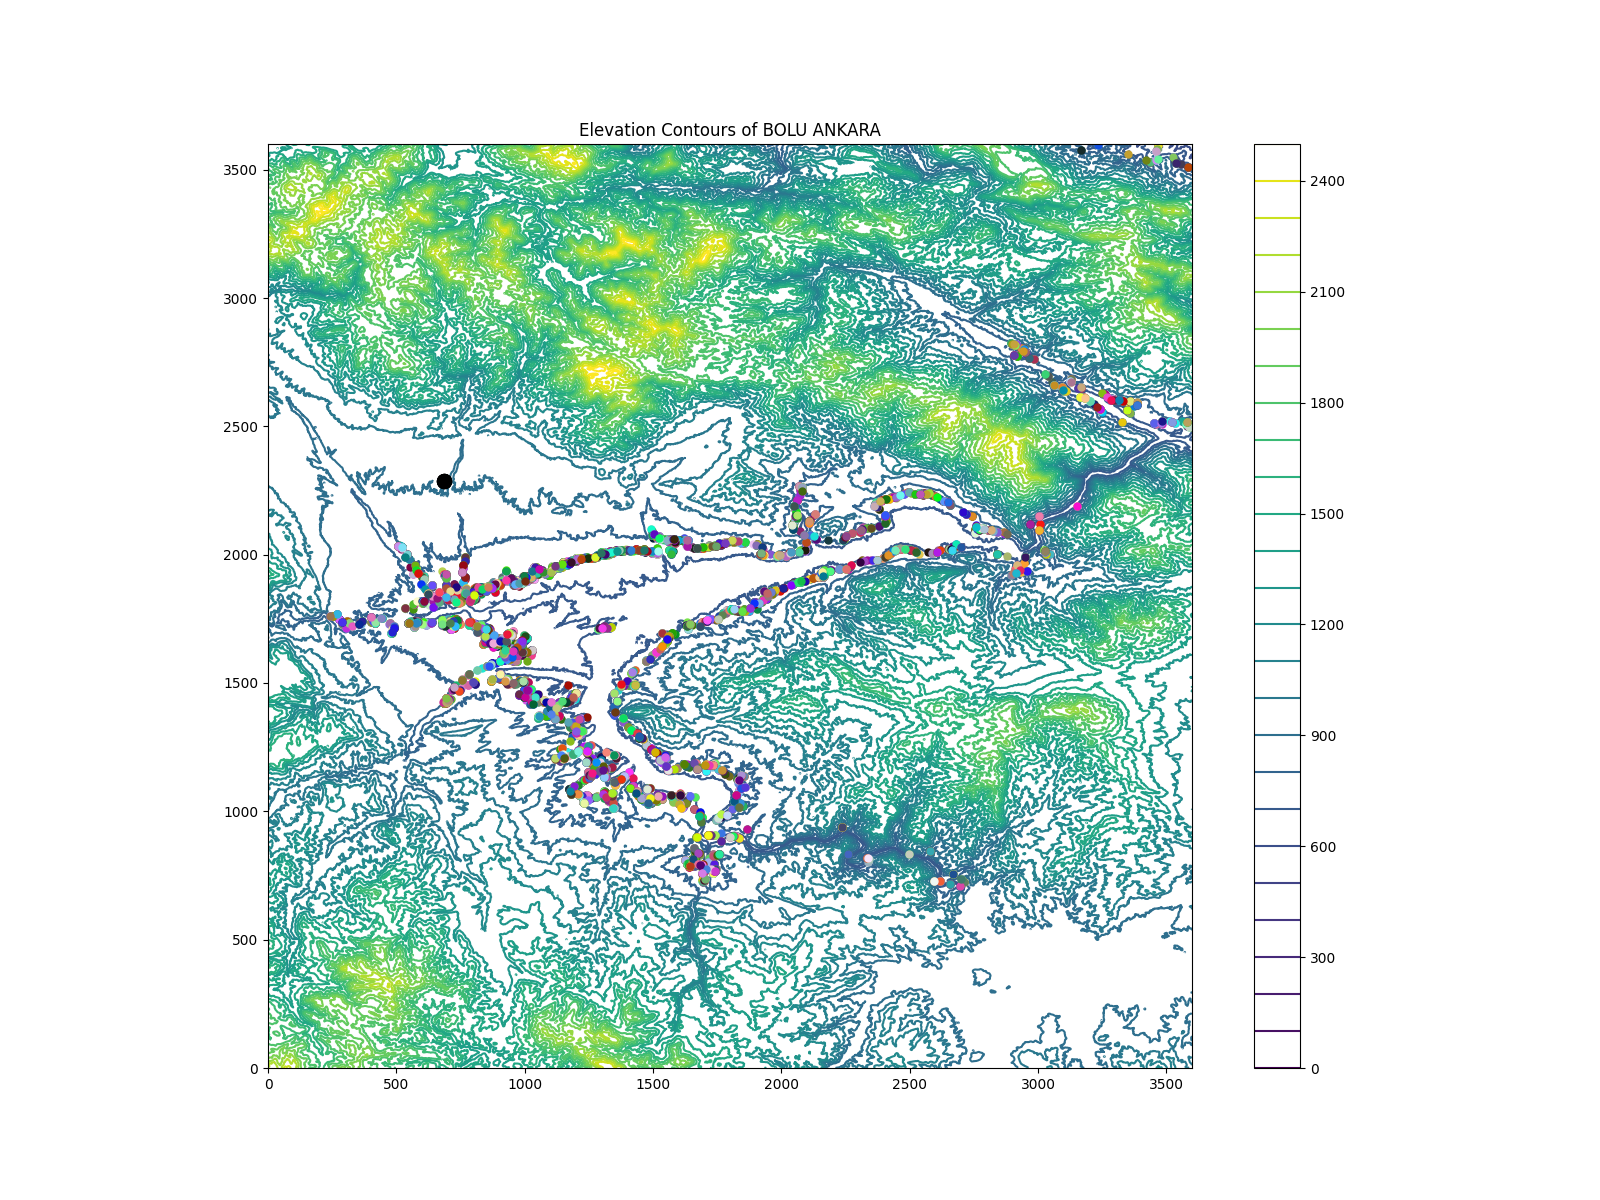
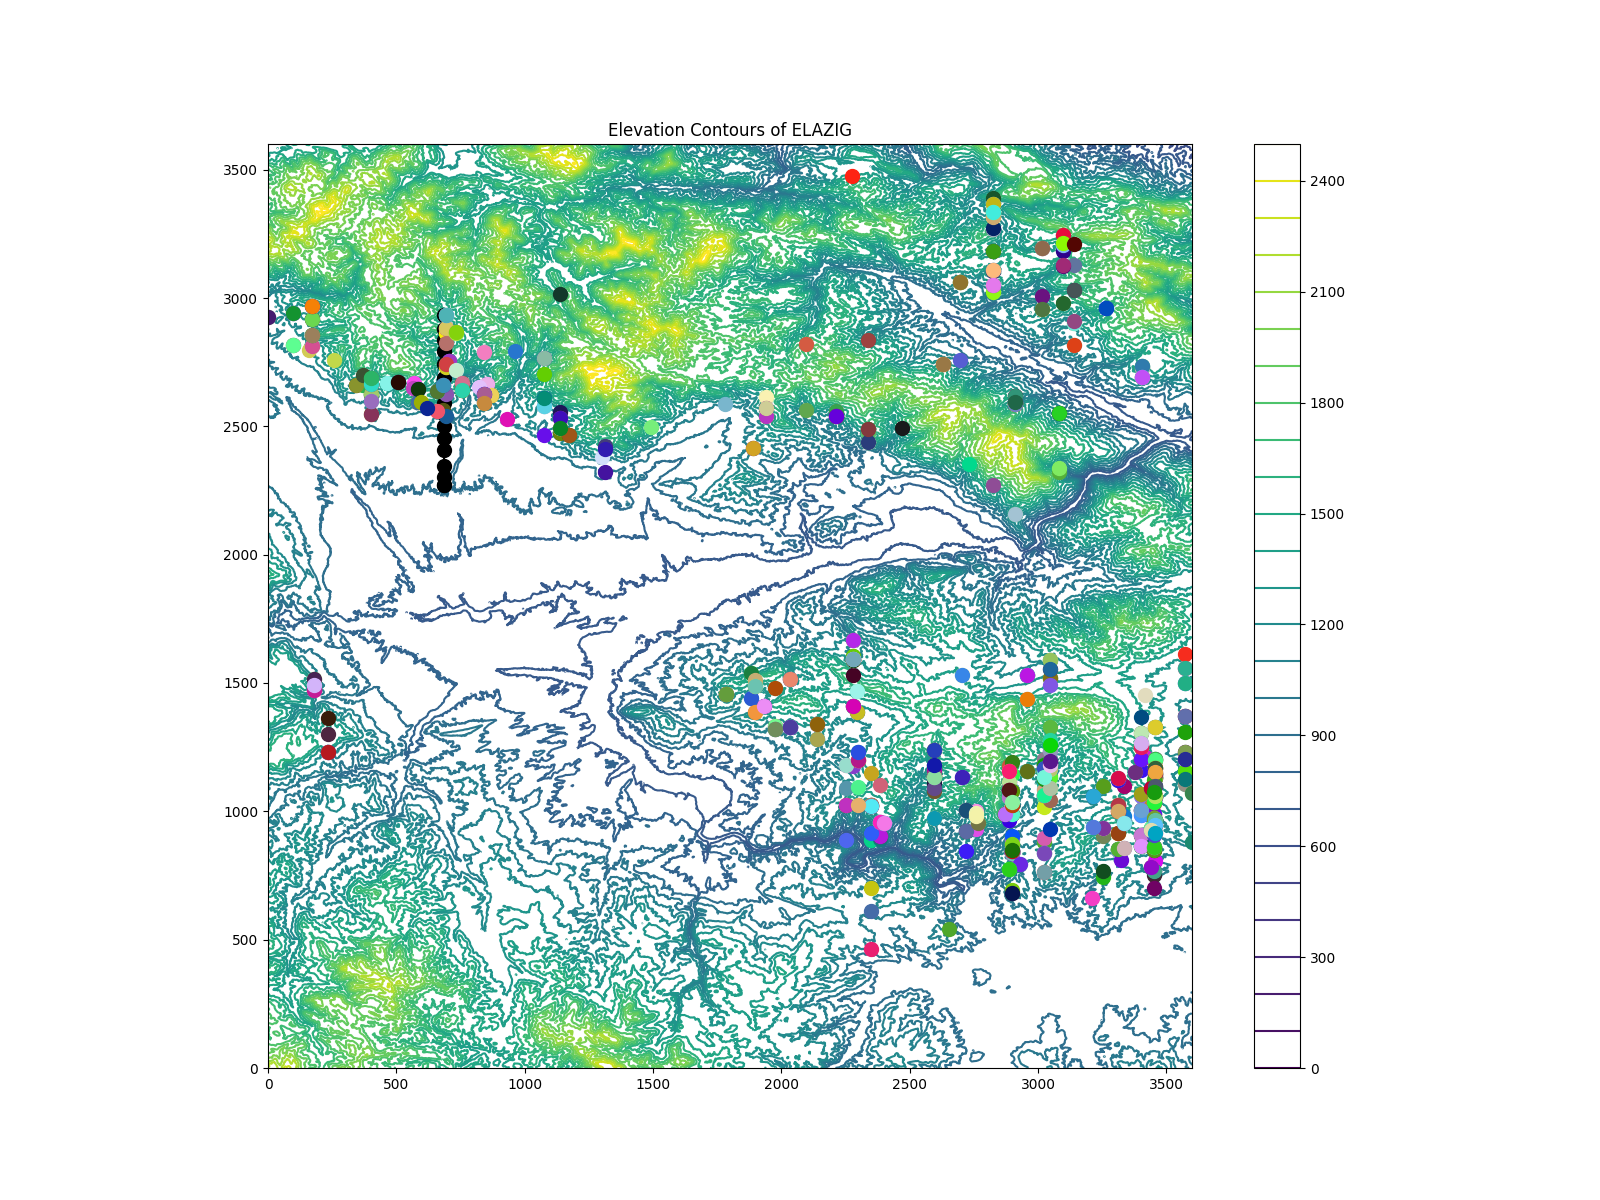
Weights, resample, plot fixed

diff --git a/Studies/emre/main.py b/Studies/emre/main.py
@@ -7,6 +7,7 @@ from particlefy.particle import Particle
 import time
 import tqdm
 import numpy as np
+import random
 
 x_list = []
 y_list = []
@@ -24,6 +25,8 @@ if __name__ == "__main__":
     geo = Geo()
     
 
+    object_x_list = []
+    object_y_list = []
 
     uc.establish_connection()
     dted_array = geo.readAsArray()
@@ -36,31 +39,36 @@ if __name__ == "__main__":
         unity_data = uc.receive_data()
         x,y,height = object.find_position(unity_data)
 
+        object_x_list.append(x)
+        object_y_list.append(y)
 
-
-    
-
-        #plotify.plot_object_position(x,y,dted_array)
-        near_points,object_height = object.find_nearly_heights(height)
+        object_height = object.find_nearly_heights(height)
 
 
         if counter == 0:
-            for i in range(0,len(near_points[0])):
+            #for i in range(0,len(near_points[0])):
                 #particle oluştur 
-                height = dted_array[near_points[0][i]][near_points[1][i]]
 
-                particles += [Particle(near_points[1][i],near_points[0][i],height)]
+                # random x y belirle 
+                #dtedde yerini bul
+                # particle oluştur
+
+            for i in range (1000):
+                x_particle = random.randint(0,3600)
+                y_particle = random.randint(0,3600)
+                height = dted_array[y_particle][x_particle]
+
+         ## x y yanlis olabilir
+
+                particles += [Particle(x_particle,y_particle,height)]
             y_list.append(y)
 
-            
+
             
 
         else:
 
-            #print(f"Distance : {abs((y-y_list[-1])/30)}")
             speed=abs(y-y_list[-1])
-
-
 
             y_list.append(y)
 
@@ -70,15 +78,15 @@ if __name__ == "__main__":
             for i in range(len(particles)):
 
                 if (particles[i].y or particles[i].x) > 3600:
-                    #print(particles[i].x,particles[i].y, i,range(len(particles)))
+
 
                     pop_indexes += [i]
                 else:
 
                     particles[i].measure_height(dted_array)
-                    particles[i].update_weight(object_height)
-                #print(f"Particle {i} : {particles[i].weight}")
-                #print(f"Particle {i} : {particles[i].height}, Object: {height}")
+
+                    particles[i].update_weight(object_height,counter)
+
 
 
 
@@ -88,34 +96,39 @@ if __name__ == "__main__":
                 j -= 1
 
 
-            #np.delete(particles,pop_indexes
+
             pop_indexes=[]
+            Particle.pdf_control(particles)
 
-            #for i in range(len(pop_indexes)):
-            #    print(pop_indexes[i])
-            #    print(len(particles))
-            #    particles.pop(pop_indexes[i])
-                #pop_indexes.pop(i)
-            #pop_indexes=[]
-            if counter > 10:
+            if counter%5 == 0 and counter != 0:
 
-                resampled_particles = Particle.resample_particles(particles,near_points,dted_array)
-
+                
+                print(f"Resample öncesi sayi {len(particles)}")
+                resampled_particles = Particle.resample_particles(particles,dted_array)
+                print(f"Resample sonrasi sayi {len(resampled_particles)}")
                 particles = resampled_particles
+                #Particle.print_particle_error(object_height,particles)
 
             
 
             
-            plotify.live_plot(x,y,dted_array,resampled_particles,counter)
+        
 
 
         
 
-        
-
+        print("Adim Sayisi: {}".format(counter))
+        plotify.live_plot(object_x_list,object_y_list,dted_array,particles,counter)
         counter += 1
 
         
 
 
-        
+        #TODO: PDF bok gibi kontrol et
+        #TODO: Movement sigma koordinata göre mesafeye göre değil
+        #TODO: Harita dışıları ağırlık düşür
+        #TODO: plotu resample sonrası yap
+        #TODO: 919000 parçacık
+        #TODO: izli şekilde particlelar (plot counter resample + 1 )
+
+

diff --git a/Studies/emre/particlefy/particle.py b/Studies/emre/particlefy/particle.py
@@ -59,15 +59,17 @@ class Particle():
         self.y_list = []
         self.x_list.append(x)
         self.y_list.append(y)
-        self.measurement_sigma =  50
+        self.measurement_sigma = 100
         self.sum_prob = 0
+        self.movement_sigma = 70
     def move(self,speed):
         '''
         :param theta_dot: angular velocity, enter 0 for moving straight
 
         '''
-
-        self.y += (speed) * math.cos(self.theta)
+        print(f"Hiz {speed}")
+        print(f"Mov. Sigma  {np.random.normal(speed, self.movement_sigma)}")
+        self.y += np.random.normal(speed, self.movement_sigma) #* math.cos(self.theta)
         self.x += (self.speed/scale) * math.sin(self.theta)
 
          
@@ -98,36 +100,51 @@ class Particle():
         
         return 1/(sigma*math.sqrt(2*math.pi))*math.e**(-0.5 * ((x-mu)/sigma)**2)
     
-    def update_weight(self, robot_height):
+    def update_weight(self, robot_height,counter):
         #print(self.x, self.y)
 
 
             #print(self.weight)
+        weight = self.probability_density_function(robot_height, self.height)
+
+        if counter%5 != 0:
+
+            self.weight += weight 
         
-        self.weight = self.probability_density_function(robot_height,self.height)
+        else:
+
+            self.weight = self.probability_density_function(robot_height,self.height)
         
         
         self.sum_prob += self.weight
 
 
     
-    def resample_particles(particles,near_points,dted_array):
+    def resample_particles(particles,dted_array):
         weights = []
 
         for particle in particles:
             weights += [particle.weight]
 
 
-        print("Toplam Probability: {}, Particle sayisi {} ".format(sum(weights), len(particles)))
+        print("Toplam Weight: {}, Particle sayisi {} ".format(sum(weights), len(particles)))
+
+        
 
         if (sum(weights)<0.05):
             resampled_particles = []
-            for i in range(0,len(near_points[0])):
+            for i in range(len(particles)):
                 #particle oluştur 
-                height = dted_array[near_points[0][i]][near_points[1][i]]
+                
 
-                resampled_particles += [Particle(near_points[1][i],near_points[0][i],height)]
-
+                try:
+                    for i in range (1000):
+                        x_particle = r.randint(0,3600)
+                        y_particle = r.randint(0,3600)
+                        height = dted_array[y_particle][x_particle]
+                        resampled_particles += [Particle(x_particle,y_particle,height)]
+                except:
+                    pass
 
             print("low weight ! ! !")
             return resampled_particles
@@ -141,6 +158,10 @@ class Particle():
     
     
         resample = r.choices(range(len(particles)), weights=weights, k=len(particles))
+        
+
+
+        #print("Resampled: {}".format(len(resample)))
         #print(resample)
         #print(weights)
     
@@ -148,10 +169,31 @@ class Particle():
         resampled_particles = []
     
         for i in resample:
+            
             resampled_particles += [Particle(particles[i].x,particles[i].y,particles[i].height)]
+
+        print("Resampled: {}".format(len(resampled_particles)))
 
         return resampled_particles
 
 
 
 
+    def print_particle_error(height, particles):
+        weights = []
+        for particle in particles:
+            weights += [particle.weight]
+        best_particle = weights.index(max(weights))
+        print("Error: " +
+              str(round(abs(particles[best_particle].height - height), 2)))
+
+        print("Weight Sum: " + str(sum(weights)))
+        print()
+
+
+    def pdf_control(particles):
+        weights=0
+        for particle in particles:
+            weights += particle.weight
+        
+        print(f"PDF (if close to 0.5 it works) {round(weights*0.01,2)}")

diff --git a/Studies/emre/plotify/plot.py b/Studies/emre/plotify/plot.py
@@ -1,3 +1,4 @@
+import random
 import matplotlib.pyplot as plt 
 import numpy as np
 from tqdm import tqdm
@@ -43,8 +44,8 @@ class Plotify():
         
         if len(particles) == 0:
             return
-        self.loc_list_y.append(y)
-        self.loc_list_x.append(x)
+        #self.loc_list_y.append(y)
+        #self.loc_list_x.append(x)
         
 
         try:
@@ -52,32 +53,25 @@ class Plotify():
         except:
             pass
 
-        if cnt %10  == 0 and cnt != 0:
+        if  cnt != 0:
             plt.contour(data_array, cmap = "viridis", 
             levels = list(range(0, 2598, 100)))
         
-            plt.title("Elevation Contours of BOLU ANKARA")
+            plt.title("Elevation Contours of ELAZIG")
             cbar = plt.colorbar()
             plt.gca().set_aspect('equal', adjustable='box')
 
-            plt.plot(self.loc_list_x, self.loc_list_y, c=(0, 0, 0), marker='o', markersize=10)
+            plt.plot(x, y, c=(0, 0, 0), marker='o', markersize=10)
+
+            print(f"Particle len in plot {len(particles)}")
 
             for i in range(len(particles)):
                 col = (np.random.random(), np.random.random(), np.random.random())
-                for j in particles[i].x_list:
-                    if j > 3600:
-                        continue
-                    else:
-                        plt.plot(particles[i].x_list,particles[i].y_list, c=col, marker='o',markersize=5)
+                #for j in particles[i].x_list:
+                #    if j > 3600:
+                #        continue
+                #    else:
+                plt.plot(particles[i].x,particles[i].y, c=col, marker='o',markersize=10)
 
             plt.savefig(f'deep-ternaloc\Studies\emre\data\plt_files\eastern-anatolia-{cnt}.png')
             print("Saved")
-        #plt.show()
-
-
-        
-
-        #for particle in particles:
-        #    col = (np.random.random(), np.random.random(), np.random.random())
-        #    plt.plot(particle[0], particle[1], color=col, marker='o', markersize=10)
-

diff --git a/Studies/emre/data/gif.py b/Studies/emre/data/gif.py
@@ -5,6 +5,6 @@ import os
 images = []
 for filename in glob.glob(os.path.join(r"C:\Users\emrea\Desktop\'22 codes\deep-ternaloc\deep-ternaloc\Studies\emre\data\plt_files",'*.png')):
     images.append(imageio.imread(filename))
-imageio.mimsave('movie4eniyi.gif', images)
+imageio.mimsave('movie5eniyi.gif', images,duration=1)
 
 

diff --git a/Studies/emre/objectify/object.py b/Studies/emre/objectify/object.py
@@ -42,7 +42,7 @@ class Object():
         
 
 
-        return self.near_points,height 
+        return height 
 
     def clip_nearly_heights(self):
         pass
